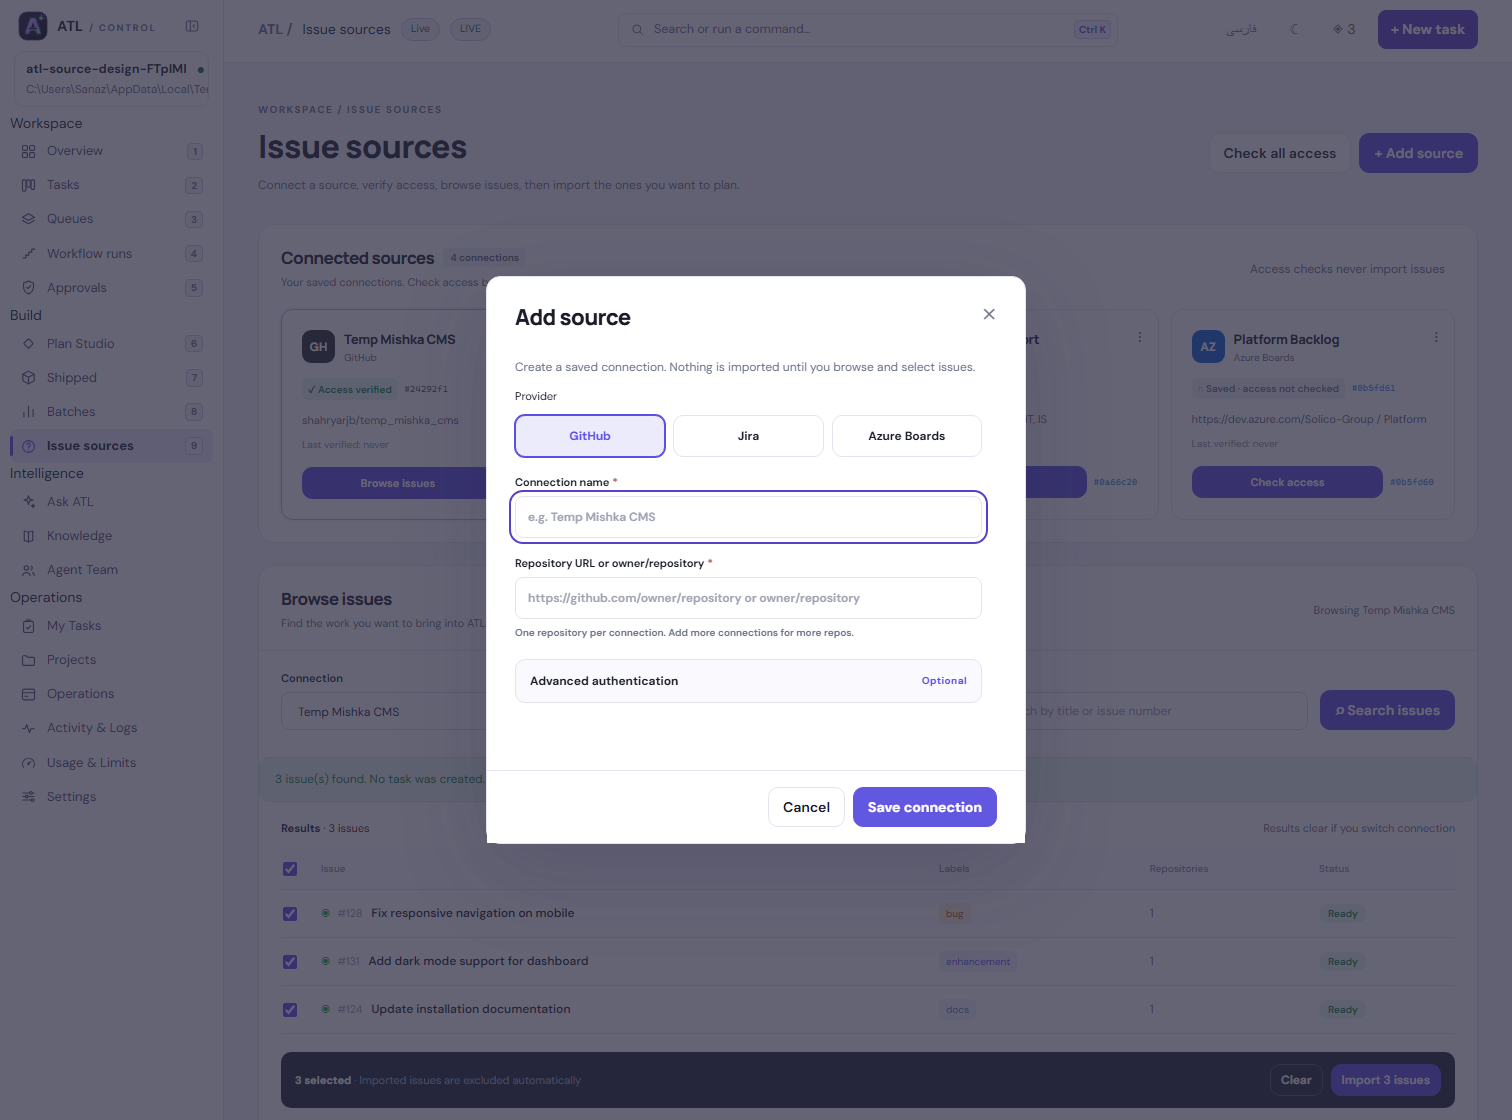
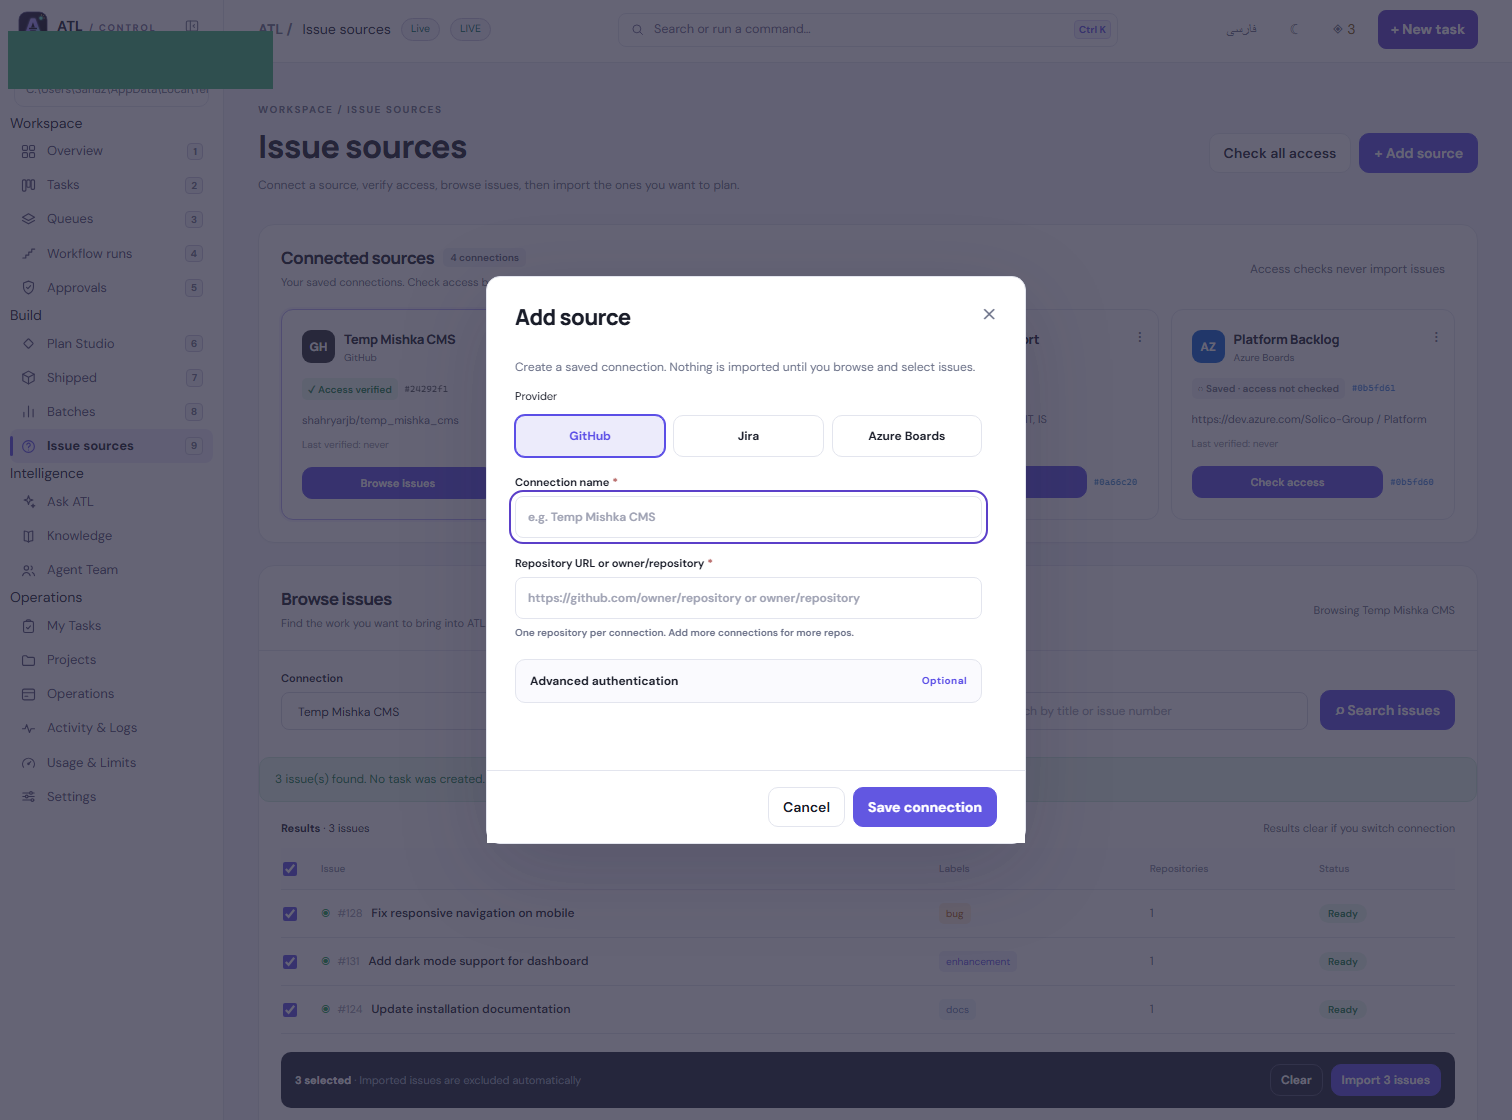
docs(diagrams): redact local workspace paths in v2 captures; regenerate stale docs
The four 1512px captures in 743185e exposed the local user profile path in the sidebar workspace box on a public repo; a redaction rectangle covers it (forward fix - history rewrite skipped deliberately while concurrent pushes are in flight). Repository map, issue-sources page and search index regenerated for the new diagram files so docs:check passes at the PR merge ref.

Changed region(s): [[0.0, 0.0, 0.1865, 0.0938]]

diff --git a/docs/issue-sources.html b/docs/issue-sources.html
@@ -34,7 +34,7 @@
 </table>
 <p>For a work item URL under <code>https://devops.example.invalid:32678/Collection/Project/</code>, enter <code>https://devops.example.invalid:32678/Collection</code> as the collection and <code>Project</code> as the project. Enter the iteration separately, for example <code>Project\Sprint 74</code>.</p>
 <p>Saving closes the dialog and shows a notice above <strong>Connected sources</strong>. A failed save keeps the form and values with an inline error. Use <strong>Check access</strong> to verify a connection. <strong>Pause connection</strong> prevents previews while keeping its settings. An Azure PAT saved with <strong>Remember securely</strong> is protected by Windows DPAPI; session tokens for all providers expire when the server stops. Token values are never returned by the connection API.</p>
-<p>Token and API-key inputs are masked by default; <strong>Show</strong> and <strong>Hide</strong> reveal or conceal only the value currently being entered. GitHub, Jira, and Azure accept an optional token in the source form; it is held in server memory for that session and can be replaced from the saved card. Azure also supports <strong>Remember securely</strong> on Windows. <strong>Advanced credential settings</strong> contains the environment-variable name: enter <code>AZDO_PAT</code> or <code>JIRA_TOKEN</code> there, not the token itself.</p>
+<p>Token and API-key inputs are masked by default; <strong>Show</strong> and <strong>Hide</strong> reveal or conceal only the value currently being entered. GitHub, Jira, and Azure accept an optional token in the source form; it is held in server memory for that session and can be replaced from the saved card. Azure also supports <strong>Remember securely</strong> on Windows. <strong>Advanced authentication</strong> contains the environment-variable name: enter <code>AZDO_PAT</code> or <code>JIRA_TOKEN</code> there, not the token itself.</p>
 <p>Existing provider settings in <code>config/manager.json</code> appear as named connections after migration. The registry lives in <code>.trust/manager/issue-connections.json</code>; it stores locations and credential references, never tokens. Legacy CLI and My Tasks settings remain in <code>config/manager.json</code>. Removing a default connection requires pausing it or having a replacement.</p>
 <h2 id="preview-and-import">Preview and import</h2>
 <ol>

diff --git a/docs/repository-map.html b/docs/repository-map.html
@@ -409,6 +409,22 @@
 <td>Visual source or retained historical capture; see the diagram library.</td>
 </tr>
 <tr>
+<td><a href="../docs/diagrams/issue-sources-v2.after.add-source.png">docs/diagrams/issue-sources-v2.after.add-source.png</a></td>
+<td>Visual source or retained historical capture; see the diagram library.</td>
+</tr>
+<tr>
+<td><a href="../docs/diagrams/issue-sources-v2.after.page.png">docs/diagrams/issue-sources-v2.after.page.png</a></td>
+<td>Visual source or retained historical capture; see the diagram library.</td>
+</tr>
+<tr>
+<td><a href="../docs/diagrams/issue-sources-v2.before.add-source.png">docs/diagrams/issue-sources-v2.before.add-source.png</a></td>
+<td>Visual source or retained historical capture; see the diagram library.</td>
+</tr>
+<tr>
+<td><a href="../docs/diagrams/issue-sources-v2.before.page.png">docs/diagrams/issue-sources-v2.before.page.png</a></td>
+<td>Visual source or retained historical capture; see the diagram library.</td>
+</tr>
+<tr>
 <td><a href="../docs/diagrams/tui-compose.svg">docs/diagrams/tui-compose.svg</a></td>
 <td>Visual source or retained historical capture; see the diagram library.</td>
 </tr>

diff --git a/docs/issue-sources.md b/docs/issue-sources.md
@@ -16,7 +16,7 @@ For a work item URL under `https://devops.example.invalid:32678/Collection/Proje
 
 Saving closes the dialog and shows a notice above **Connected sources**. A failed save keeps the form and values with an inline error. Use **Check access** to verify a connection. **Pause connection** prevents previews while keeping its settings. An Azure PAT saved with **Remember securely** is protected by Windows DPAPI; session tokens for all providers expire when the server stops. Token values are never returned by the connection API.
 
-Token and API-key inputs are masked by default; **Show** and **Hide** reveal or conceal only the value currently being entered. GitHub, Jira, and Azure accept an optional token in the source form; it is held in server memory for that session and can be replaced from the saved card. Azure also supports **Remember securely** on Windows. **Advanced credential settings** contains the environment-variable name: enter `AZDO_PAT` or `JIRA_TOKEN` there, not the token itself.
+Token and API-key inputs are masked by default; **Show** and **Hide** reveal or conceal only the value currently being entered. GitHub, Jira, and Azure accept an optional token in the source form; it is held in server memory for that session and can be replaced from the saved card. Azure also supports **Remember securely** on Windows. **Advanced authentication** contains the environment-variable name: enter `AZDO_PAT` or `JIRA_TOKEN` there, not the token itself.
 
 Existing provider settings in `config/manager.json` appear as named connections after migration. The registry lives in `.trust/manager/issue-connections.json`; it stores locations and credential references, never tokens. Legacy CLI and My Tasks settings remain in `config/manager.json`. Removing a default connection requires pausing it or having a replacement.
 

diff --git a/docs/repository-map.md b/docs/repository-map.md
@@ -122,6 +122,10 @@ Developer guides, generated website, visual sources, and historical evidence.
 | [docs/diagrams/codex-history-bridge-mobile.png](../docs/diagrams/codex-history-bridge-mobile.png) | Visual source or retained historical capture; see the diagram library. |
 | [docs/diagrams/codex-history-bridge.light.svg](../docs/diagrams/codex-history-bridge.light.svg) | Visual source or retained historical capture; see the diagram library. |
 | [docs/diagrams/codex-history-bridge.svg](../docs/diagrams/codex-history-bridge.svg) | Visual source or retained historical capture; see the diagram library. |
+| [docs/diagrams/issue-sources-v2.after.add-source.png](../docs/diagrams/issue-sources-v2.after.add-source.png) | Visual source or retained historical capture; see the diagram library. |
+| [docs/diagrams/issue-sources-v2.after.page.png](../docs/diagrams/issue-sources-v2.after.page.png) | Visual source or retained historical capture; see the diagram library. |
+| [docs/diagrams/issue-sources-v2.before.add-source.png](../docs/diagrams/issue-sources-v2.before.add-source.png) | Visual source or retained historical capture; see the diagram library. |
+| [docs/diagrams/issue-sources-v2.before.page.png](../docs/diagrams/issue-sources-v2.before.page.png) | Visual source or retained historical capture; see the diagram library. |
 | [docs/diagrams/tui-compose.svg](../docs/diagrams/tui-compose.svg) | Visual source or retained historical capture; see the diagram library. |
 | [docs/diagrams/tui-dashboard.svg](../docs/diagrams/tui-dashboard.svg) | Visual source or retained historical capture; see the diagram library. |
 | [docs/diagrams/tui-launch.svg](../docs/diagrams/tui-launch.svg) | Visual source or retained historical capture; see the diagram library. |
